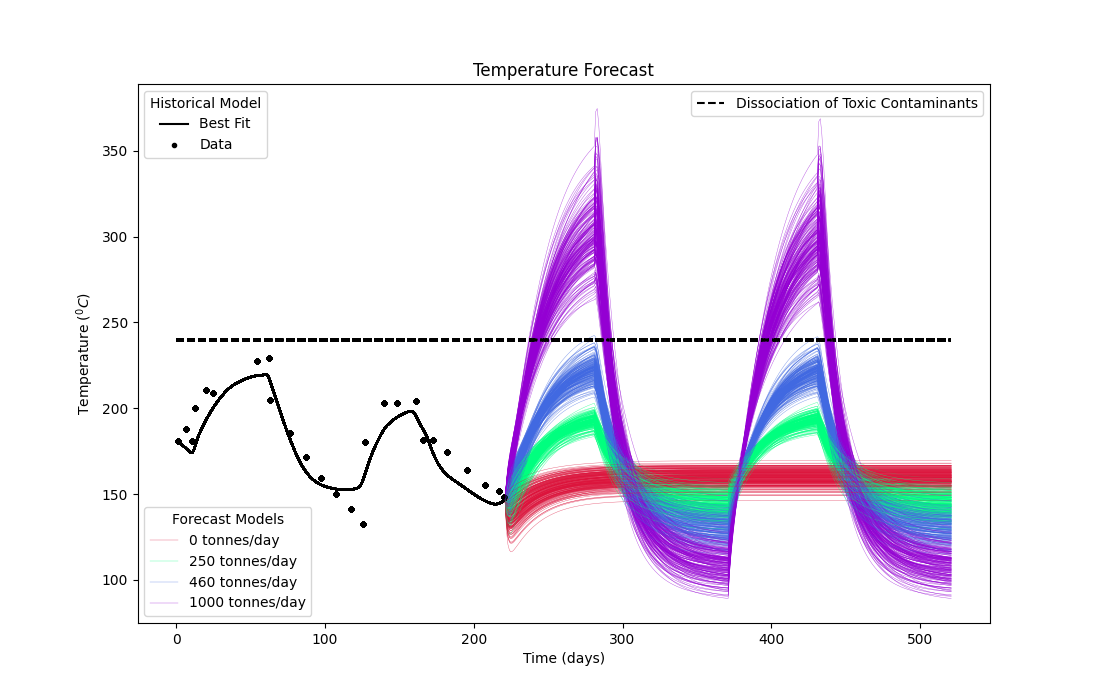
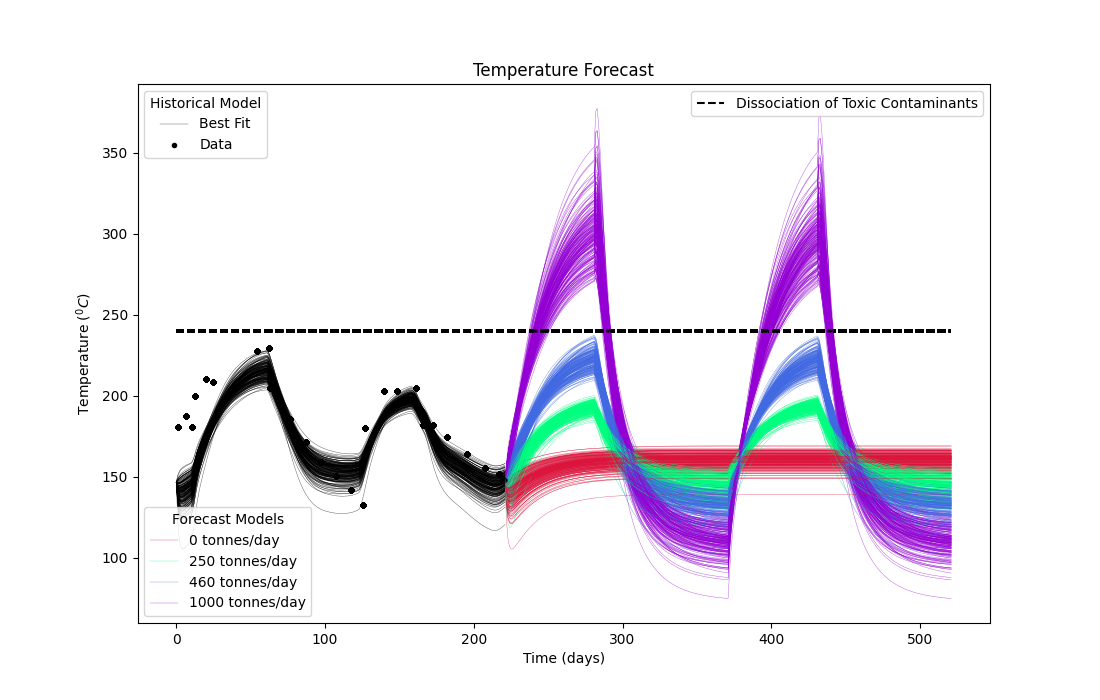
Replaced uncertainty plot and tweaked some format

diff --git a/main.py b/main.py
@@ -463,7 +463,7 @@ def formulate_models():
 
 
 def plot_models():
-    ''' Plot the two pressure and temperature LPMs over top of the observed data.
+    ''' Plots the two pressure and temperature LPMs over the top of the observed data.
 
         Parameters:
         -----------
@@ -531,7 +531,7 @@ def plot_models():
 
 
 def temp_forecast():
-    ''' Plot our model prediction for temperature over the next 300 days using different injection rates
+    ''' Plots our model prediction for temperature over time for the next 300 days using different injection rates.
 
         Parameters:
         -----------
@@ -546,7 +546,7 @@ def temp_forecast():
         This function called within if __name__ == "__main__":
 
         It contains commands to plot predictions of temerature change over time using four different injection rates,
-        and then display the plot to the screen.
+        and then displays the plot to the screen.
 
     '''
 
@@ -662,7 +662,7 @@ def temp_forecast():
     return
 
 def uncertainty():
-    ''' Plot the final image of Temerature over time using four different injection rates, with uncertainty.
+    ''' Plots the final prediction of temerature over time using four different injection rates, with uncertainty.
 
         Parameters:
         -----------
@@ -835,7 +835,7 @@ if __name__ == "__main__":
     Only run one of these at a time. May just be me but it
     breaks the code when I try run several at a time.
     Probably due to stack problems and functions not relinquishing
-    control so the rest can use it. formuale_models() might be the issue.
+    control so the rest can use it. formualate_models() might be the issue.
 
     '''
     #plot_models()
